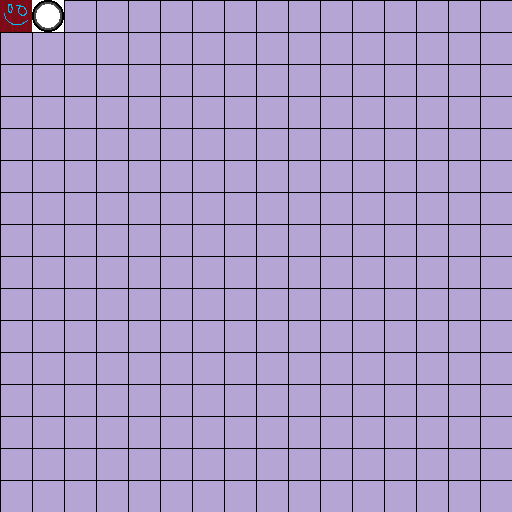
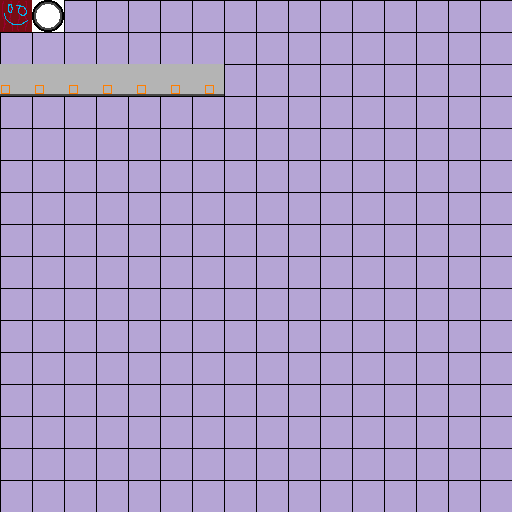
Animations

Changed region(s): [[0.0, 0.125, 0.4375, 0.1875]]

diff --git a/src/gfx/Animation.java b/src/gfx/Animation.java
@@ -1,0 +1,107 @@
+package gfx;
+
+import java.awt.Graphics;
+import java.awt.image.BufferedImage;
+
+import game.Game;
+
+public class Animation {
+	
+	private Game game;
+	private int x, y;
+	private int delay;
+	private BufferedImage[] frames;
+	
+	private boolean loopable = false;
+	
+	private int frame;
+	private int timer = 0;
+	private boolean playing = false;
+	
+	public Animation(Game game, int x, int y, int delay, boolean loopable, BufferedImage[] frames) {
+		this.game = game;
+		this.x = x;
+		this.y = y;
+		this.delay = delay;
+		this.loopable = loopable;
+		this.frames = frames;
+	}
+	
+	public void render(Graphics g) {
+		g.drawImage(frames[frame], x, y, null);
+	}
+	
+	public void tick() {
+		if (playing) {
+			timer++;
+			if (timer % (game.getTpsCap() / delay) == 0) {
+				if (frame < frames.length - 1) {
+					frame++;
+				} else if (!loopable) {
+					playing = false;
+				} else if (loopable) {
+					frame = 0;
+				}
+			}
+		}
+	}
+	
+	public void play() {
+		if (playing) return;
+		playing = true;
+	}
+	
+	public void reset() {
+		frame = 0;
+	}
+	
+	public void stop() {
+		if (!playing) return;
+		playing = false;
+	}
+
+	public Game getGame() {
+		return game;
+	}
+
+	public int getX() {
+		return x;
+	}
+	
+	public void setX(int x) {
+		this.x = x;
+	}
+
+	public int getY() {
+		return y;
+	}
+	
+	public void setY(int y) {
+		this.y = y;
+	}
+	
+	public int getDelay() {
+		return delay;
+	}
+	
+	public void setDelay(int delay) {
+		this.delay = delay;
+	}
+
+	public BufferedImage[] getFrames() {
+		return frames;
+	}
+
+	public int getFrame() {
+		return frame;
+	}
+	
+	public boolean isLoopable() {
+		return loopable;
+	}
+
+	public boolean isPlaying() {
+		return playing;
+	}
+
+}

diff --git a/src/gfx/Assets.java b/src/gfx/Assets.java
@@ -15,18 +15,31 @@ public class Assets {
 	// Uses a spreadsheet for image assets
 	private BufferedImage sheet;
 	
+	// Images
 	public BufferedImage img1, img2;
+	public BufferedImage[] anim1;
 	
 	public Assets() {
 		sheet = ImageLoader.loadImg(path + "sheet.png");
+		
+		// Init anim size
+		anim1 = new BufferedImage[7];
 		
 		// Crop images
 		img1 = ImageManipulation.crop(sheet, 0, 0, width, height);
 		img2 = ImageManipulation.crop(sheet, width, 0, width, height);
 		
+		for (int i = 0; i < anim1.length; i++) {
+			anim1[i] = ImageManipulation.crop(sheet, width * i, height * 2, width, height);
+		}
+		
 		// Scale images
 		img1 = ImageManipulation.scaleNearest(img1, scale);
-		img2 = ImageManipulation.scaleNearest(img1, scale);
+		img2 = ImageManipulation.scaleNearest(img2, scale);
+		
+		for (int i = 0; i < anim1.length; i++) {
+			anim1[i] = ImageManipulation.scaleNearest(anim1[i], scale);
+		}
 		
 		// Rotate images
 		img1 = ImageManipulation.rotateImageByDegrees(img1, 90);

diff --git a/src/scene/GameScene.java b/src/scene/GameScene.java
@@ -5,11 +5,18 @@ import java.awt.Graphics;
 
 import audio.Song;
 import game.Game;
+import gfx.Animation;
 
 public class GameScene extends Scene {
-
+	
+	private Animation anim;
+	
 	public GameScene(Game game, int id) {
 		super(game, id);
+		
+		anim = new Animation(game, 600, 400, 2, true, game.getAssets().anim1);
+		
+		anim.play();
 	}
 	
 	public void render(Graphics g) {
@@ -22,18 +29,23 @@ public class GameScene extends Scene {
 			g.drawString("Now Playing: " + Song.getFilename(), 400, 500);
 			g.drawString("Press BACKSPACE to stop.", 400, 530);
 		}
+		
+		anim.render(g);
 	}
 	
 	public void tick() {
 		if (game.getMouse().leftMouse) {
 			System.out.println("Pressing the left mouse?!?");
 		}
+		
 		if (game.getKeyboard().playsong && !Song.isStarted()) {
 			Song.playSong("/songs/retrofuture.wav");
 		}
 		if (game.getKeyboard().stopsong && Song.isPlaying()) {
 			Song.stopCurrentSong();
 		}
+		
+		anim.tick();
 	}
 
 }

diff --git a/src/game/Game.java b/src/game/Game.java
@@ -54,6 +54,9 @@ public class Game implements Runnable {
 			fps = settings.fps;
 		}
 		
+		assets = new Assets();
+		fonts = new Fonts(this);
+		
 		sceneManager = new SceneManager(this);
 		
 		keyboardInput = new KeyboardInput(this);
@@ -62,9 +65,6 @@ public class Game implements Runnable {
 		display.getFrame().addKeyListener(keyboardInput);
 		display.getCanvas().addMouseListener(mouseInput);
 		display.getCanvas().addMouseMotionListener(mouseInput);
-		
-		assets = new Assets();
-		fonts = new Fonts(this);
 	}
 	
 	public void run() {
